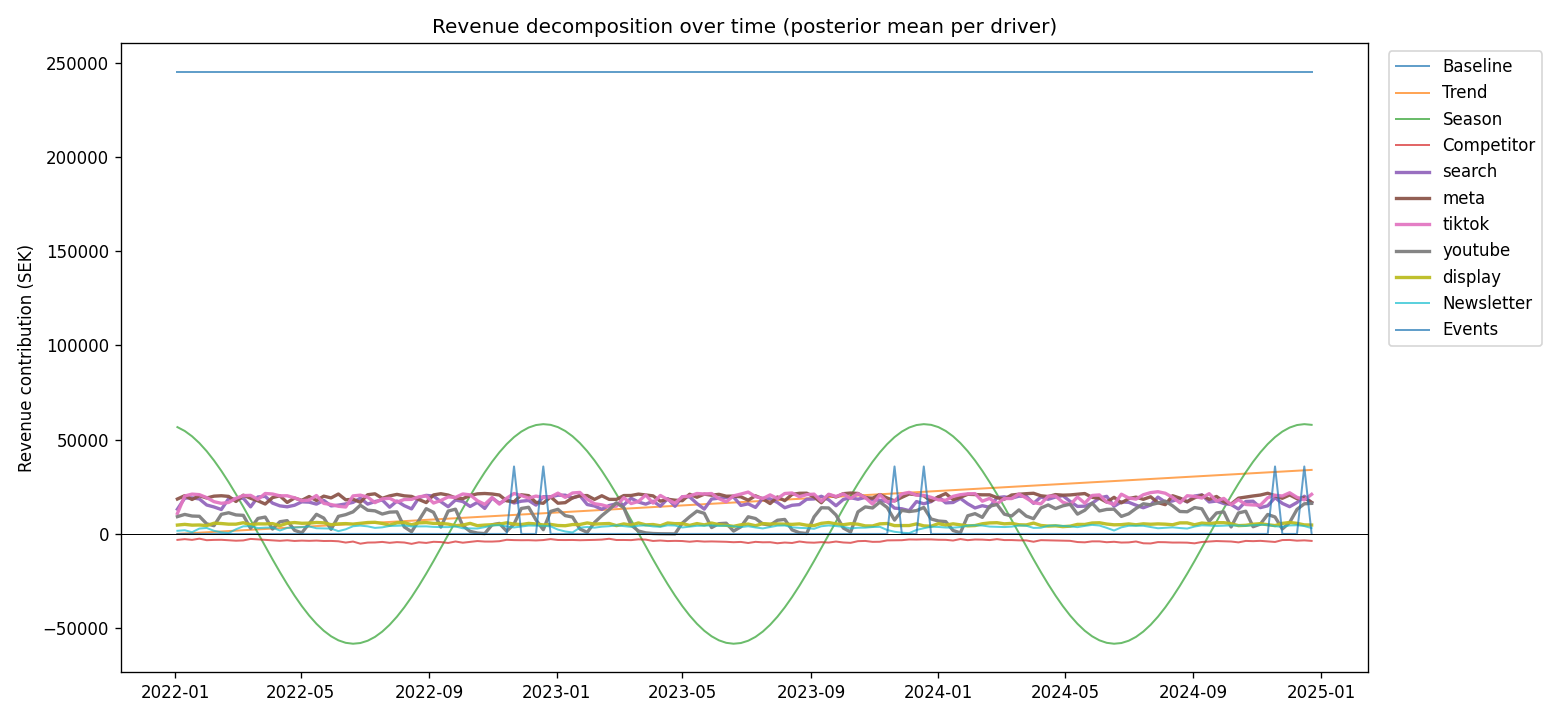
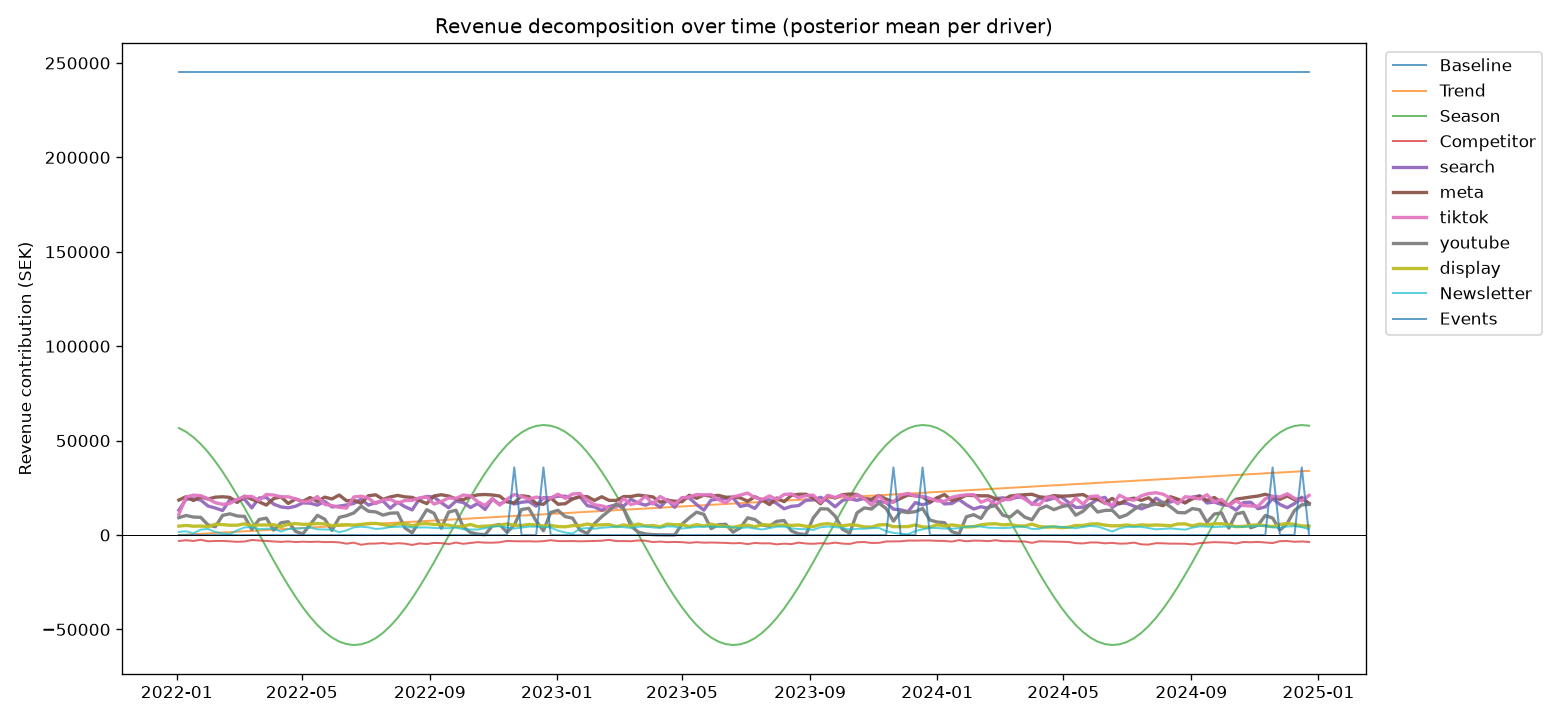
Use posterior predictive interval on revenue plot (was credible interval on mean)

diff --git a/01-bayesian-mmm-stan/fit_mmm.py b/01-bayesian-mmm-stan/fit_mmm.py
@@ -121,10 +121,16 @@ print(f"  MAPE: {mape:.3%}")
 # -----------------------------------------------------------------------------
 plt.rcParams.update({"figure.dpi": 120, "savefig.dpi": 120})
 fig, ax = plt.subplots(figsize=(12, 5))
-mu_lo, mu_hi = np.percentile(mu_post, [5, 95], axis=0)
+# Posterior predictive interval on revenue: uses revenue_pred = Normal(mu, sigma)
+# so the band captures BOTH parameter uncertainty AND observation noise, not
+# only the credible interval on the mean.
+revenue_pred_post = post["revenue_pred"]                       # (draws, N)
+pred_lo, pred_hi = np.percentile(revenue_pred_post, [5, 95], axis=0)
+coverage = float(((df["revenue"].to_numpy() >= pred_lo) & (df["revenue"].to_numpy() <= pred_hi)).mean())
 ax.plot(df["DATE"], df["revenue"], color="steelblue", label="Actual", lw=1.8)
 ax.plot(df["DATE"], mu_mean, color="darkorange", label="Posterior mean", lw=1.4)
-ax.fill_between(df["DATE"], mu_lo, mu_hi, alpha=0.25, color="darkorange", label="90% CI")
+ax.fill_between(df["DATE"], pred_lo, pred_hi, alpha=0.25, color="darkorange",
+                label=f"90% posterior predictive interval ({coverage:.0%} coverage)")
 ax.set_title(f"Actual vs modelled revenue (R^2 = {r2:.3f})")
 ax.set_ylabel("Revenue (SEK)")
 ax.legend()

diff --git a/01-bayesian-mmm-stan/report.tex b/01-bayesian-mmm-stan/report.tex
@@ -124,7 +124,7 @@ MAPE       & \textbf{4.4\%} \\
 \begin{figure}[H]
 \centering
 \includegraphics[width=0.95\textwidth]{figures/01_actual_vs_modeled.png}
-\caption{Actual weekly revenue (blue) vs posterior-mean prediction (orange) with the 90\% credible band.}
+\caption{Actual weekly revenue (blue) vs posterior-mean prediction (orange) with the 90\% posterior predictive interval (parameter uncertainty plus observation noise). Empirical coverage of the observed revenue is close to the nominal 90\%.}
 \end{figure}
 
 \subsection{Parameter recovery}